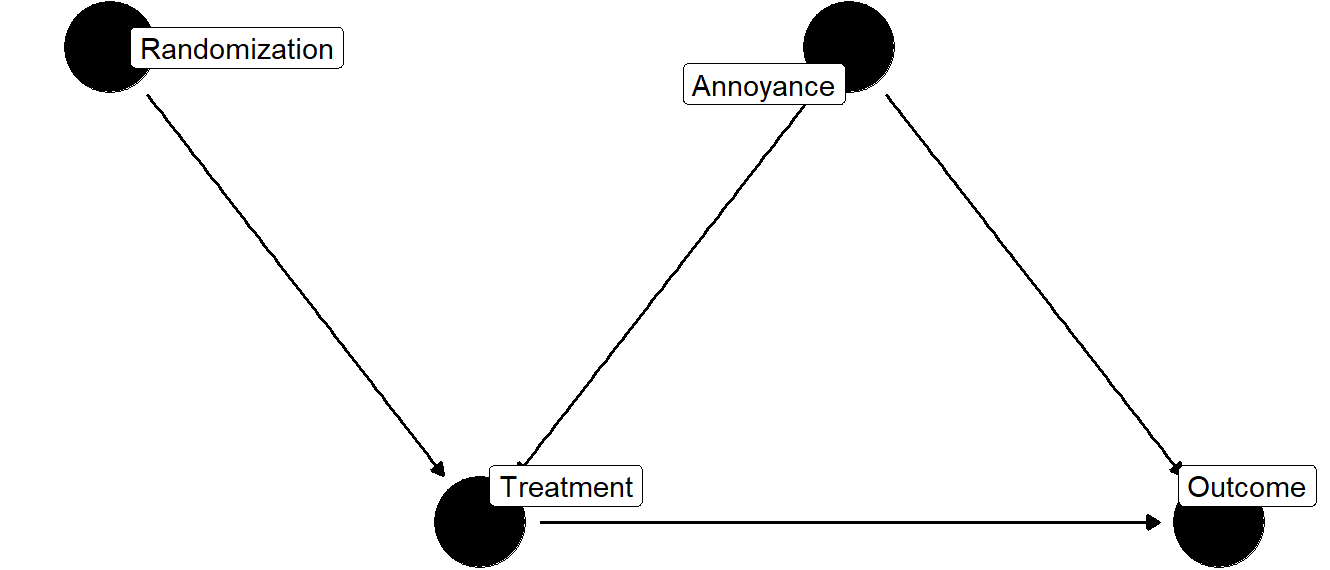
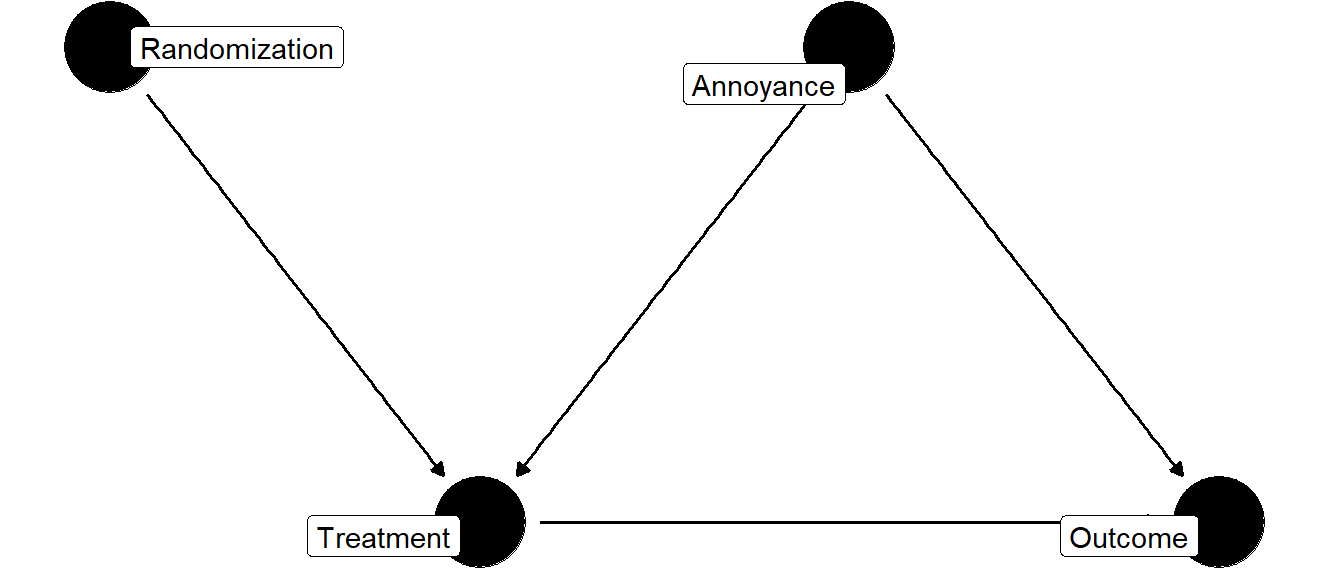
Slide 17 IV

diff --git a/IV/IV.html b/IV/IV.html
@@ -108,11 +108,11 @@ For instrumental variables to work, two assumptions must be satisfied:
 
 &lt;br&gt;
 &lt;div class="figure"&gt;
-<div id="htmlwidget-d6c2de240b6b06d697c1" style="width:100%;height:250px;" class="grViz html-widget"></div>
+<div id="htmlwidget-e208b7d3d2d245c623d0" style="width:100%;height:250px;" class="grViz html-widget"></div>
 <script>HTMLWidgets.pymChild = new pym.Child();HTMLWidgets.addPostRenderHandler(function(){
                                 setTimeout(function(){HTMLWidgets.pymChild.sendHeight();},100);
                             });</script>
-<script type="application/json" data-for="htmlwidget-d6c2de240b6b06d697c1">{"x":{"diagram":"digraph \"Causal Diagramm RDD\" {\n  layout=neato\n  fontname=\"Helvetica,Arial,sans-serif\"\n  bgcolor=transparent\n  imagescale=both\n  node [fontname=\"Helvetica,Arial,sans-serif\"]\n  edge [fontname=\"Helvetica,Arial,sans-serif\"]\n  node [shape=none];\n  \"Randomization\" [pos=\"0,1!\"]\n  \"Treatment\" [pos=\"1,0!\"]\n  \"Annoyance\" [pos=\"2,1!\"]\n   \"Outcome\" [pos=\"3,0!\"]\n\n  \n  \"Randomization\" -> \"Treatment\"\n   \"Annoyance\" ->  \"Outcome\"\n   \"Treatment\" -> \"Outcome\"\n   \"Annoyance\" -> \"Treatment\"\n\n  \n}","config":{"engine":"dot","options":null}},"evals":[],"jsHooks":[]}</script>
+<script type="application/json" data-for="htmlwidget-e208b7d3d2d245c623d0">{"x":{"diagram":"digraph \"Causal Diagramm RDD\" {\n  layout=neato\n  fontname=\"Helvetica,Arial,sans-serif\"\n  bgcolor=transparent\n  imagescale=both\n  node [fontname=\"Helvetica,Arial,sans-serif\"]\n  edge [fontname=\"Helvetica,Arial,sans-serif\"]\n  node [shape=none];\n  \"Randomization\" [pos=\"0,1!\"]\n  \"Treatment\" [pos=\"1,0!\"]\n  \"Annoyance\" [pos=\"2,1!\"]\n   \"Outcome\" [pos=\"3,0!\"]\n\n  \n  \"Randomization\" -> \"Treatment\"\n   \"Annoyance\" ->  \"Outcome\"\n   \"Treatment\" -> \"Outcome\"\n   \"Annoyance\" -> \"Treatment\"\n\n  \n}","config":{"engine":"dot","options":null}},"evals":[],"jsHooks":[]}</script>
 &lt;p class="caption"&gt;1: Causal Diagram&lt;/p&gt;
 &lt;/div&gt;
 
@@ -180,11 +180,11 @@ Any paths between the instrument `\(Z\)` and the outcome `\(Y\)` must either pas
 
 
 &lt;div class="figure"&gt;
-<div id="htmlwidget-2a4650280d58a0e7ef5f" style="width:100%;height:400px;" class="grViz html-widget"></div>
+<div id="htmlwidget-719124f0a1935ea311c0" style="width:100%;height:400px;" class="grViz html-widget"></div>
 <script>HTMLWidgets.pymChild = new pym.Child();HTMLWidgets.addPostRenderHandler(function(){
                                 setTimeout(function(){HTMLWidgets.pymChild.sendHeight();},100);
                             });</script>
-<script type="application/json" data-for="htmlwidget-2a4650280d58a0e7ef5f">{"x":{"diagram":"digraph \"Causal Diagramm RDD\" {\n  layout=neato\n  fontname=\"Helvetica,Arial,sans-serif\"\n  bgcolor=transparent\n  imagescale=both\n  node [fontname=\"Helvetica,Arial,sans-serif\"]\n  edge [fontname=\"Helvetica,Arial,sans-serif\"]\n  node [shape=none];\n  \"A\" [pos=\"2,0!\"]\n  \"B\" [pos=\"2,2!\"]\n  \"C\" [pos=\"0,2!\"]\n  \"D\" [pos=\"4,2!\"]\n  \"X\" [pos=\"2,1!\",  fontcolor=\"red\"]\n  \"Y\" [pos=\"4,1!\",  fontcolor=\"red\"]\n  \"Z\" [pos=\"0,1!\",  fontcolor=\"lightblue\"]\n\n  \n  \"A\" -> \"Y\"\n   \"B\" ->  \"Z\"\n   \"B\" -> \"Y\"\n   \"C\" -> \"Z\"\n   \"C\" ->  \"X\"\n   \"D\" -> \"X\"\n   \"D\" -> \"Y\"\n   \"X\" ->  \"Y\"[color=\"red\"]\n   \"Z\" -> \"X\" [color=\"lightblue\"]\n   \"Z\" -> \"A\"\n}","config":{"engine":"dot","options":null}},"evals":[],"jsHooks":[]}</script>
+<script type="application/json" data-for="htmlwidget-719124f0a1935ea311c0">{"x":{"diagram":"digraph \"Causal Diagramm RDD\" {\n  layout=neato\n  fontname=\"Helvetica,Arial,sans-serif\"\n  bgcolor=transparent\n  imagescale=both\n  node [fontname=\"Helvetica,Arial,sans-serif\"]\n  edge [fontname=\"Helvetica,Arial,sans-serif\"]\n  node [shape=none];\n  \"A\" [pos=\"2,0!\"]\n  \"B\" [pos=\"2,2!\"]\n  \"C\" [pos=\"0,2!\"]\n  \"D\" [pos=\"4,2!\"]\n  \"X\" [pos=\"2,1!\",  fontcolor=\"red\"]\n  \"Y\" [pos=\"4,1!\",  fontcolor=\"red\"]\n  \"Z\" [pos=\"0,1!\",  fontcolor=\"lightblue\"]\n\n  \n  \"A\" -> \"Y\"\n   \"B\" ->  \"Z\"\n   \"B\" -> \"Y\"\n   \"C\" -> \"Z\"\n   \"C\" ->  \"X\"\n   \"D\" -> \"X\"\n   \"D\" -> \"Y\"\n   \"X\" ->  \"Y\"[color=\"red\"]\n   \"Z\" -> \"X\" [color=\"lightblue\"]\n   \"Z\" -> \"A\"\n}","config":{"engine":"dot","options":null}},"evals":[],"jsHooks":[]}</script>
 &lt;p class="caption"&gt;3: A causal diagram amenable to IV estimation&lt;/p&gt;
 &lt;/div&gt;
 ---
@@ -321,13 +321,17 @@ Instrumental Variable can be estimated using Two-stage least squares (2SLS). The
 
 Using assumptions and theory, construct statistical moments (means, variances, covariances, etc.) that should have certain values. Use sample versions of these moments to estimate the quantity of interest
 
-&lt;br&gt;
 .blockquote[
-### Example: The sample mean is a GMM estimator of the expected value
+### Example: The sample mean is a GMM estimator of the expected value `\(\mu = E(Y)\)`
 
-- To use GMM to estimate the expected value of a variable `\(Y\)`, it can be said that the difference between the estimator of  `\(\mu\)` and the population expected value `\(E(Y)\)` should be zero 
+- The GMM estimator, demands that the difference between the estimator of `\(\mu\)` and the population expected value `\(E(Y)\)` should be zero 
 
   &amp;rarr; `\(\mu - E(Y) = 0\)` is a moment condition for the estimation.
+  
+- E. g., suppose we have  `\(Y_i \sim [0, a]\)`
+- Also `\(E(Y) = \dfrac{a + b}{2} = \dfrac{a}{2}\)`
+- Plugging in the (G)MM sample estimator `\(\bar(y)\)` for `\(E(Y)\)` results in `\(\bar(y)= \dfrac{1}{N} \sum_{i = 1}^{N} Y_i = \dfrac{a}{2}\)`
+- Rearranging yields `\(a = 2 \cdot \bar(y)\)`
 
 - Replace `\(E(Y)\)` with its sample value `\(\frac{1}{N}\sum Y\)` and solve the equation to get `\(\widehat{\mu} = \frac{1}{N}\sum Y\)`
 
